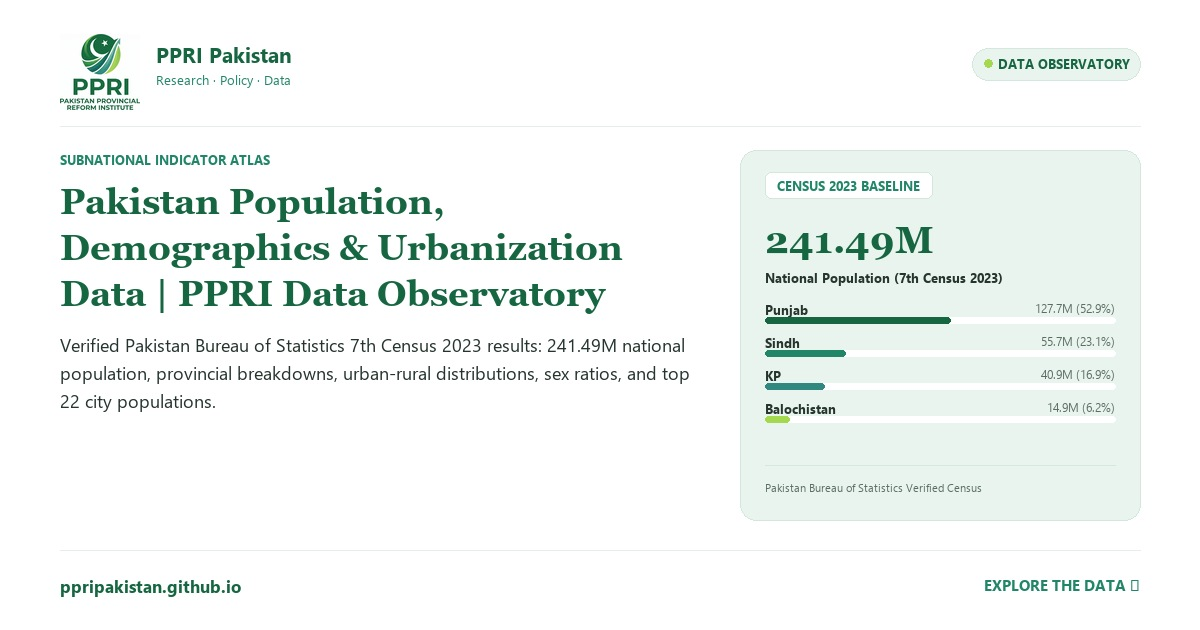
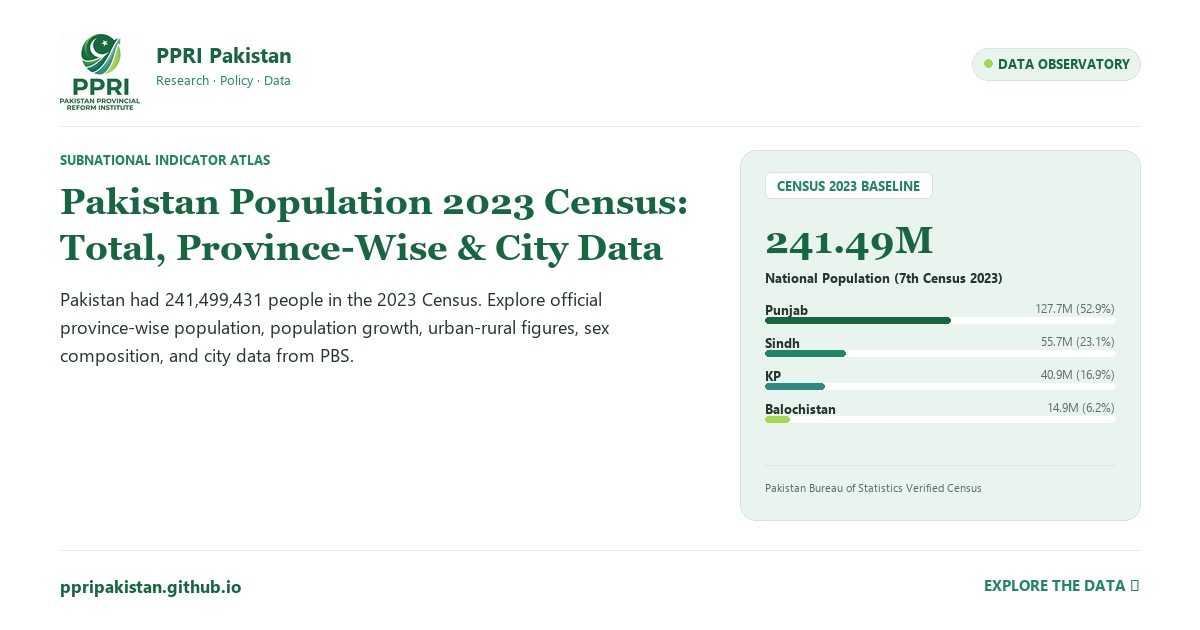
phase-17e

Changed region(s): [[0.0308, 0.3016, 0.5858, 0.6032], [0.0617, 0.6333, 0.185, 0.6635]]

diff --git a/data/population/index.html b/data/population/index.html
@@ -12,28 +12,28 @@
     </script>
     <meta charset="utf-8" />
     <meta name="viewport" content="width=device-width,initial-scale=1" />
-    <title>Pakistan Population, Demographics & Urbanization Data | PPRI Data Observatory</title>
-    <meta name="description" content="Verified Pakistan Bureau of Statistics 7th Census 2023 results: 241.49M national population, provincial breakdowns, urban-rural distributions, sex ratios, and top 22 city populations." />
+    <title>Pakistan Population 2023 Census: Total, Province-Wise &amp; City Data | PPRI</title>
+    <meta name="description" content="Pakistan had 241,499,431 people in the 2023 Census. Explore official province-wise population, population growth, urban-rural figures, sex composition, and city data from PBS." />
     <link rel="canonical" href="https://ppripakistan.github.io/data/population/" />
     <meta property="og:site_name" content="Pakistan Provincial Reform Institute" />
     <meta property="og:locale" content="en_PK" />
     <meta property="og:type" content="website" />
-    <meta property="og:title" content="Pakistan Population, Demographics & Urbanization Data | PPRI Data Observatory" />
-    <meta property="og:description" content="Verified Pakistan Bureau of Statistics 7th Census 2023 results: 241.49M national population, provincial breakdowns, urban-rural distributions, sex ratios, and top 22 city populations." />
+    <meta property="og:title" content="Pakistan Population 2023 Census: Total, Province-Wise &amp; City Data | PPRI" />
+    <meta property="og:description" content="Pakistan had 241,499,431 people in the 2023 Census. Explore official province-wise population, population growth, urban-rural figures, sex composition, and city data from PBS." />
     <meta property="og:url" content="https://ppripakistan.github.io/data/population/" />
     <meta property="og:image" content="https://ppripakistan.github.io/assets/images/previews/data-population.jpg" />
     <meta property="og:image:secure_url" content="https://ppripakistan.github.io/assets/images/previews/data-population.jpg" />
     <meta property="og:image:type" content="image/jpeg" />
     <meta property="og:image:width" content="1200" />
     <meta property="og:image:height" content="630" />
-    <meta property="og:image:alt" content="Pakistan Population, Demographics & Urbanization Data | PPRI Data Observatory | Pakistan Provincial Reform Institute" />
+    <meta property="og:image:alt" content="Pakistan Population 2023 Census: Total, Province-Wise &amp; City Data | Pakistan Provincial Reform Institute" />
     <meta name="twitter:card" content="summary_large_image" />
     <meta name="twitter:site" content="@PPRI_Pakistan" />
     <meta name="twitter:creator" content="@PPRI_Pakistan" />
-    <meta name="twitter:title" content="Pakistan Population, Demographics & Urbanization Data | PPRI Data Observatory" />
-    <meta name="twitter:description" content="Verified Pakistan Bureau of Statistics 7th Census 2023 results: 241.49M national population, provincial breakdowns, urban-rural distributions, sex ratios, and top 22 city populations." />
+    <meta name="twitter:title" content="Pakistan Population 2023 Census: Total, Province-Wise &amp; City Data | PPRI" />
+    <meta name="twitter:description" content="Pakistan had 241,499,431 people in the 2023 Census. Explore official province-wise population, population growth, urban-rural figures, sex composition, and city data from PBS." />
     <meta name="twitter:image" content="https://ppripakistan.github.io/assets/images/previews/data-population.jpg" />
-    <meta name="twitter:image:alt" content="Pakistan Population, Demographics & Urbanization Data | PPRI Data Observatory | Pakistan Provincial Reform Institute" />
+    <meta name="twitter:image:alt" content="Pakistan Population 2023 Census: Total, Province-Wise &amp; City Data | Pakistan Provincial Reform Institute" />
     <link rel="icon" type="image/png" href="/favicon.png" />
     <link rel="icon" href="/favicon.ico" sizes="48x48" />
     <link rel="icon" href="/assets/images/brand/favicon.svg" type="image/svg+xml" />
@@ -49,8 +49,8 @@
     {
       "@context": "https://schema.org",
       "@type": "Dataset",
-      "name": "Pakistan Population, Demographics &amp; Urbanization",
-      "description": "Verified Pakistan Bureau of Statistics 7th Census 2023 results: 241.49M national population, provincial breakdowns, urban-rural distributions, sex ratios, and top 22 city populations.",
+      "name": "Pakistan Population 2023 Census: Province-Wise, Urban-Rural and City Data",
+      "description": "Pakistan had 241,499,431 people in the 2023 Census. Explore official province-wise population, population growth, urban-rural figures, sex composition, and city data from PBS.",
       "url": "https://ppripakistan.github.io/data/population/",
       "license": "https://creativecommons.org/licenses/by/4.0/",
       "spatialCoverage": {
@@ -91,12 +91,157 @@
         {
           "@type": "ListItem",
           "position": 3,
-          "name": "Pakistan Population, Demographics &amp; Urbanization",
+          "name": "Pakistan Population 2023 Census: Province-Wise, Urban-Rural and City Data",
           "item": "https://ppripakistan.github.io/data/population/"
         }
       ]
     }
     </script>
+    <script type="application/ld+json">
+{
+  "@context": "https://schema.org",
+  "@type": "FAQPage",
+  "mainEntity": [
+    {
+      "@type": "Question",
+      "name": "What is the population of Pakistan according to the 2023 census?",
+      "acceptedAnswer": {
+        "@type": "Answer",
+        "text": "The Pakistan Bureau of Statistics reports 241,499,431 people in the 2023 Population and Housing Census. This is a census count, not a live estimate for 2026."
+      }
+    },
+    {
+      "@type": "Question",
+      "name": "What was Pakistan’s population in 2017?",
+      "acceptedAnswer": {
+        "@type": "Answer",
+        "text": "The 2017 census counted 207,684,626 people in the Table 1 comparison series used on this page."
+      }
+    },
+    {
+      "@type": "Question",
+      "name": "Which province has the largest population in Pakistan?",
+      "acceptedAnswer": {
+        "@type": "Answer",
+        "text": "Punjab was the most populous province in the 2023 census, with 127,688,922 people, about 52.87% of the national total."
+      }
+    },
+    {
+      "@type": "Question",
+      "name": "What is the population of Punjab in the 2023 census?",
+      "acceptedAnswer": {
+        "@type": "Answer",
+        "text": "Punjab’s 2023 census population was 127,688,922."
+      }
+    },
+    {
+      "@type": "Question",
+      "name": "What is the population of Sindh in the 2023 census?",
+      "acceptedAnswer": {
+        "@type": "Answer",
+        "text": "Sindh’s 2023 census population was 55,696,147."
+      }
+    },
+    {
+      "@type": "Question",
+      "name": "What is the population of Khyber Pakhtunkhwa in the 2023 census?",
+      "acceptedAnswer": {
+        "@type": "Answer",
+        "text": "Khyber Pakhtunkhwa’s 2023 census population was 40,856,097."
+      }
+    },
+    {
+      "@type": "Question",
+      "name": "What is the population of Balochistan in the 2023 census?",
+      "acceptedAnswer": {
+        "@type": "Answer",
+        "text": "Balochistan’s 2023 census population was 14,894,402."
+      }
+    },
+    {
+      "@type": "Question",
+      "name": "What is Pakistan’s population growth rate?",
+      "acceptedAnswer": {
+        "@type": "Answer",
+        "text": "PBS reported an average annual growth rate of 2.55% between the 2017 and 2023 censuses. This historical rate is not a verified 2026 growth rate."
+      }
+    },
+    {
+      "@type": "Question",
+      "name": "How many people live in urban and rural Pakistan?",
+      "acceptedAnswer": {
+        "@type": "Answer",
+        "text": "The PBS Census 2023 Table 1 series used on this page reports 93,750,724 urban residents and 147,748,707 rural residents. Some PBS report tables show a slightly different split; use a named table series when comparing figures."
+      }
+    },
+    {
+      "@type": "Question",
+      "name": "What percentage of Pakistan’s population lives in cities?",
+      "acceptedAnswer": {
+        "@type": "Answer",
+        "text": "Using the PBS Census 2023 Table 1 series, 93,750,724 of 241,499,431 people were classified as urban—about 38.82%. The result depends on the census table’s urban/rural classification."
+      }
+    },
+    {
+      "@type": "Question",
+      "name": "What is the population density of Pakistan?",
+      "acceptedAnswer": {
+        "@type": "Answer",
+        "text": "Population density depends on the land-area denominator and geographic coverage used. Consult PBS Census 2023 Table 1 for official national and province-wise density figures rather than combining population counts with an unrelated area estimate."
+      }
+    },
+    {
+      "@type": "Question",
+      "name": "What is the population of Karachi?",
+      "acceptedAnswer": {
+        "@type": "Answer",
+        "text": "Karachi figures vary depending on whether the source reports an urban locality, district, division or wider metropolitan definition. Always compare the named geographic unit and exact PBS census table; these boundaries are not interchangeable."
+      }
+    },
+    {
+      "@type": "Question",
+      "name": "What is the population of Lahore?",
+      "acceptedAnswer": {
+        "@type": "Answer",
+        "text": "Lahore population figures may refer to the urban locality or Lahore District. State the unit and census table when citing a number; do not treat district and city populations as synonyms."
+      }
+    },
+    {
+      "@type": "Question",
+      "name": "Does the 2023 census total shown here include Gilgit-Baltistan and Azad Jammu and Kashmir?",
+      "acceptedAnswer": {
+        "@type": "Answer",
+        "text": "The 241,499,431 total on this page is the PBS Table 1 series covering the four provinces and Islamabad Capital Territory. Gilgit-Baltistan and Azad Jammu and Kashmir are not included in that five-area total."
+      }
+    },
+    {
+      "@type": "Question",
+      "name": "Where can I download official Pakistan census population data?",
+      "acceptedAnswer": {
+        "@type": "Answer",
+        "text": "Start with the Pakistan Bureau of Statistics Census portal and its detailed results and Excel tables. This page also provides a downloadable PPRI CSV derived from the cited source series."
+      }
+    },
+    {
+      "@type": "Question",
+      "name": "Is 241.5 million Pakistan’s current population in 2026?",
+      "acceptedAnswer": {
+        "@type": "Answer",
+        "text": "No. It is the enumerated population from the 2023 census. A 2026 population estimate is a different statistic and should be labelled with its projection source, reference date and method."
+      }
+    }
+  ]
+}
+</script>
+    <style>
+      #pakistan-population-at-a-glance .obs-table-container { overflow-x: auto; }
+      #pakistan-population-at-a-glance table caption { text-align:left; padding:0.75rem; font-weight:700; }
+      .population-faq-list { display:grid; gap:10px; }
+      .population-faq-list details { border:1px solid var(--obs-border); border-radius:var(--obs-radius-sm); padding:14px 16px; background:#fff; }
+      .population-faq-list summary { cursor:pointer; font-weight:700; line-height:1.5; }
+      .population-faq-list details p { margin:12px 0 0; line-height:1.7; }
+      @media (max-width:640px) { #pakistan-population-at-a-glance .obs-table { min-width:620px; } }
+    </style>
   </head>
   <body>
     <a class="skip-link" href="#main-content">Skip to content</a>
@@ -134,8 +279,8 @@
             <span class="obs-badge obs-badge-official">&check; Verified Public Data</span>
             <span class="obs-badge obs-badge-period">Updated 2025–26</span>
           </div>
-          <h1 class="obs-title">Pakistan Population, Demographics &amp; Urbanization</h1>
-          <p class="obs-subtitle">Verified Pakistan Bureau of Statistics 7th Census 2023 results: 241.49M national population, provincial breakdowns, urban-rural distributions, sex ratios, and top 22 city populations.</p>
+          <h1 class="obs-title">Pakistan Population (2023 Census): Total, Provinces, Cities &amp; Demographics</h1>
+          <p class="obs-subtitle">Pakistan’s 7th Population and Housing Census counted 241,499,431 people in 2023. Explore province-wise totals, growth between the 2017 and 2023 censuses, urban and rural population, population by sex, and official source tables.</p>
         </div>
       </div>
 
@@ -143,18 +288,40 @@
         <div style="background:#ffffff;border:1px solid var(--obs-border);border-radius:var(--obs-radius-md);padding:14px 18px;margin-bottom:28px;box-shadow:var(--obs-shadow);">
           <div style="font-size:0.8rem;font-weight:700;color:var(--obs-text-muted);text-transform:uppercase;letter-spacing:0.05em;margin-bottom:8px;">Observatory Thematic Hubs</div>
           <div style="display:flex;flex-wrap:wrap;gap:8px;">
-            <a href="/data/centre.html" class="obs-query-chip">🌐 Overview &amp; Map</a><a href="/data/population/" class="obs-query-chip active" style="background:var(--obs-primary);color:#fff;border-color:var(--obs-primary);>👥 Population &amp; Cities</a><a href="/data/economy/" class="obs-query-chip">📈 Economy &amp; Inflation</a><a href="/data/living-standards/" class="obs-query-chip">🏠 Living Standards</a><a href="/data/public-finance/" class="obs-query-chip">⚖ Public Finance &amp; NFC</a><a href="/data/education/" class="obs-query-chip">🎓 Education</a><a href="/data/health/" class="obs-query-chip">🏥 Health</a><a href="/data/digital-access/" class="obs-query-chip">🌐 Digital Access</a><a href="/data/compare/" class="obs-query-chip">📊 Compare</a><a href="/data/quick-facts/" class="obs-query-chip">★ Fast Facts</a>
+            <a href="/data/centre.html" class="obs-query-chip">🌐 Overview &amp; Map</a><a href="/data/population/" class="obs-query-chip active" style="background:var(--obs-primary);color:#fff;border-color:var(--obs-primary);">👥 Population &amp; Cities</a><a href="/data/economy/" class="obs-query-chip">📈 Economy &amp; Inflation</a><a href="/data/living-standards/" class="obs-query-chip">🏠 Living Standards</a><a href="/data/public-finance/" class="obs-query-chip">⚖ Public Finance &amp; NFC</a><a href="/data/education/" class="obs-query-chip">🎓 Education</a><a href="/data/health/" class="obs-query-chip">🏥 Health</a><a href="/data/digital-access/" class="obs-query-chip">🌐 Digital Access</a><a href="/data/compare/" class="obs-query-chip">📊 Compare</a><a href="/data/quick-facts/" class="obs-query-chip">★ Fast Facts</a>
           </div>
         </div>
 
         <!-- Executive Stat Cards -->
         
+      <!-- Phase 2.2: Direct-answer content for Pakistan population search intent -->
+      <section class="obs-section" id="pakistan-population-at-a-glance" aria-labelledby="population-at-a-glance-title">
+        <div class="obs-section-header">
+          <div><span class="obs-badge obs-badge-official">Official census baseline</span><h2 class="obs-section-title" id="population-at-a-glance-title">What is the population of Pakistan?</h2></div>
+          <a class="obs-btn obs-btn-outline" href="https://www.pbs.gov.pk/census/" target="_blank" rel="noopener noreferrer">PBS Census source ↗</a>
+        </div>
+        <p><strong>Pakistan’s population was 241,499,431 in the 2023 Population and Housing Census</strong>, according to the Pakistan Bureau of Statistics (PBS). This is the latest census count shown on this page—not a live 2026 population estimate. The 2017 census counted 207,684,626 people; the reported average annual growth rate between the two censuses was 2.55%.</p>
+        <div class="obs-table-container"><table class="obs-table">
+          <caption>Pakistan population by province and Islamabad Capital Territory, Census 2023</caption>
+          <thead><tr><th scope="col">Province / area</th><th scope="col">Population (2023)</th><th scope="col">Share of national total</th><th scope="col">Annual growth, 2017–2023</th></tr></thead>
+          <tbody>
+            <tr><th scope="row">Punjab</th><td class="num">127,688,922</td><td class="num">52.87%</td><td class="num">2.53%</td></tr>
+            <tr><th scope="row">Sindh</th><td class="num">55,696,147</td><td class="num">23.06%</td><td class="num">2.57%</td></tr>
+            <tr><th scope="row">Khyber Pakhtunkhwa</th><td class="num">40,856,097</td><td class="num">16.92%</td><td class="num">2.38%</td></tr>
+            <tr><th scope="row">Balochistan</th><td class="num">14,894,402</td><td class="num">6.17%</td><td class="num">3.20%</td></tr>
+            <tr><th scope="row">Islamabad Capital Territory</th><td class="num">2,363,863</td><td class="num">0.98%</td><td class="num">2.80%</td></tr>
+            <tr><th scope="row">Pakistan total</th><td class="num">241,499,431</td><td class="num">100%</td><td class="num">2.55%</td></tr>
+          </tbody></table></div>
+        <p class="summary-note"><strong>How to read the figures:</strong> Census counts describe the population enumerated in a stated census year. Growth rates are historical averages for 2017–2023, not forecasts for 2026. Islamabad is a federal capital territory, not one of Pakistan’s four provinces. PBS tables may differ for some rural/urban breakdowns; this page labels the Table 1 series where used.</p>
+        <p>For a concise administrative overview, see <a href="/articles/provinces-of-pakistan-names-capitals-population.html">the guide to Pakistan’s provinces, capitals and population</a>. For city-level figures, compare like with like: an urban locality, district, division and metropolitan area are not interchangeable geographic units.</p>
+      </section>
+
       <!-- Phase 4: Crawlable Static HTML Executive Data Summary & Key Benchmarks -->
       <section class="seo-data-summary" id="executive-data-summary" aria-label="Executive Data Summary">
         <h2>Pakistan Population, Urbanization & City Scale: Executive Demographic Summary</h2>
         <p class="summary-lead"><strong>Executive Overview:</strong> Official results from the Pakistan Bureau of Statistics (PBS) 7th Population and Housing Census 2023 record Pakistan's total population at 241,499,431 citizens, reflecting an average intercensal annual growth rate of 2.55% between 2017 and 2023. This demographic expansion represents an addition of over 33.8 million people in six years, placing acute administrative pressure on provincial service delivery, urban infrastructure, and administrative boundaries.</p>
-        <p>Demographic weight is heavily concentrated: Punjab contains 127,688,922 citizens (52.88%), Sindh contains 55,696,147 (23.06%), Khyber Pakhtunkhwa houses 40,856,097 (16.92%), Balochistan comprises 14,894,402 (6.17%), and Islamabad Capital Territory holds 2,363,863 (0.98%). Pakistan's urban population reached 93.75 million (38.82%), led by two megacities: Karachi Division at 20,382,881 citizens and Lahore District at 13,004,135 citizens. Pakistan now has 22 secondary cities exceeding 500,000 residents, yet municipal governance remains constrained under centralized provincial bureaucracies.</p>
-        <div class="table-wrap"><table class="data-summary-table"><thead><tr><th>Administrative Division / City</th><th>2023 Census Population</th><th>National Share (%)</th><th>Urban Proportion (%)</th><th>Administrative Status</th></tr></thead><tbody><tr><td>Punjab Province</td><td>127,688,922</td><td>52.88%</td><td>40.70%</td><td>Provincial Baseline (10 Divisions)</td></tr><tr><td>Sindh Province</td><td>55,696,147</td><td>23.06%</td><td>53.73%</td><td>Provincial Baseline (7 Divisions)</td></tr><tr><td>Khyber Pakhtunkhwa</td><td>40,856,097</td><td>16.92%</td><td>15.01%</td><td>Provincial Baseline (7 Divisions)</td></tr><tr><td>Balochistan</td><td>14,894,402</td><td>6.17%</td><td>30.98%</td><td>Provincial Baseline (8 Divisions)</td></tr><tr><td>Islamabad Capital Territory</td><td>2,363,863</td><td>0.98%</td><td>46.90%</td><td>Federal Capital Territory</td></tr><tr><td>Karachi Megacity (7 Districts)</td><td>20,382,881</td><td>8.44%</td><td>100.0%</td><td>Megacity Hub (25 Towns)</td></tr><tr><td>Lahore Megacity</td><td>13,004,135</td><td>5.38%</td><td>100.0%</td><td>Provincial Capital Hub</td></tr><tr><td>Faisalabad City</td><td>3,691,999</td><td>1.53%</td><td>100.0%</td><td>Secondary Industrial City</td></tr><tr><td>Rawalpindi City</td><td>3,357,612</td><td>1.39%</td><td>100.0%</td><td>Secondary Urban Hub</td></tr></tbody></table></div>
+        <p>Demographic weight is heavily concentrated: Punjab contains 127,688,922 citizens (52.88%), Sindh contains 55,696,147 (23.06%), Khyber Pakhtunkhwa houses 40,856,097 (16.92%), Balochistan comprises 14,894,402 (6.17%), and Islamabad Capital Territory holds 2,363,863 (0.98%). For the urban-rural split, this page uses the PBS Census 2023 Table 1 series: 93,750,724 urban residents and 147,748,707 rural residents. City population figures must be interpreted using their published geographic definition; an urban locality is not the same as a district or division.</p>
+        <div class="table-wrap"><table class="data-summary-table"><thead><tr><th>Administrative Division / City</th><th>2023 Census Population</th><th>National Share (%)</th><th>Urban Proportion (%)</th><th>Administrative Status</th></tr></thead><tbody><tr><td>Punjab Province</td><td>127,688,922</td><td>52.88%</td><td>40.71%</td><td>Provincial Baseline (10 Divisions)</td></tr><tr><td>Sindh Province</td><td>55,696,147</td><td>23.06%</td><td>53.97%</td><td>Provincial Baseline (7 Divisions)</td></tr><tr><td>Khyber Pakhtunkhwa</td><td>40,856,097</td><td>16.92%</td><td>15.01%</td><td>Provincial Baseline (7 Divisions)</td></tr><tr><td>Balochistan</td><td>14,894,402</td><td>6.17%</td><td>30.96%</td><td>Provincial Baseline (8 Divisions)</td></tr><tr><td>Islamabad Capital Territory</td><td>2,363,863</td><td>0.98%</td><td>46.91%</td><td>Federal Capital Territory</td></tr><tr><td>Karachi Megacity (7 Districts)</td><td>20,382,881</td><td>8.44%</td><td>100.0%</td><td>Megacity Hub (25 Towns)</td></tr><tr><td>Lahore Megacity</td><td>13,004,135</td><td>5.38%</td><td>100.0%</td><td>Provincial Capital Hub</td></tr><tr><td>Faisalabad City</td><td>3,691,999</td><td>1.53%</td><td>100.0%</td><td>Secondary Industrial City</td></tr><tr><td>Rawalpindi City</td><td>3,357,612</td><td>1.39%</td><td>100.0%</td><td>Secondary Urban Hub</td></tr></tbody></table></div>
         <p class="summary-note"><em>Data Benchmark: Official verified public figures from PBS Census 2023, HIES 2024–25, PES 2025–26, and 7th NFC Award documents. Fully crawlable static reference data.</em></p>
       </section>
 
@@ -169,7 +336,7 @@
               </div>
             </div>            <div class="obs-stat-card">
               <span class="obs-stat-label">Urbanization Share</span>
-              <div class="obs-stat-val">38.8%</div>
+              <div class="obs-stat-val">38.82%</div>
               <div class="obs-stat-unit">93.75M in urban localities</div>
               <div class="obs-stat-footer" style="display:flex;justify-content:space-between;align-items:center;">
                 <span>Census Urban/Rural</span>
@@ -226,7 +393,7 @@
                 </tr>
               </thead>
               <tbody>
-                <tr><td>Pakistan (National Total)</td><td class="num">241,499,431</td><td class="num">100.0%</td><td class="num">2.55% / yr</td><td>PBS Census 2023 Table 1</td></tr><tr><td>Punjab (PK-PB)</td><td class="num">127,688,922</td><td class="num">52.87%</td><td class="num">2.53% / yr</td><td>PBS Census 2023 Table 1</td></tr><tr><td>Sindh (PK-SD)</td><td class="num">55,696,147</td><td class="num">23.06%</td><td class="num">2.57% / yr</td><td>PBS Census 2023 Table 1</td></tr><tr><td>Khyber Pakhtunkhwa (PK-KP)</td><td class="num">40,856,097</td><td class="num">16.92%</td><td class="num">2.38% / yr</td><td>PBS Census 2023 Table 1</td></tr><tr><td>Balochistan (PK-BA)</td><td class="num">14,894,402</td><td class="num">6.17%</td><td class="num">3.20% / yr</td><td>PBS Census 2023 Table 1</td></tr><tr><td>Islamabad Capital Territory (PK-ICT)</td><td class="num">2,363,863</td><td class="num">0.98%</td><td class="num">2.80% / yr</td><td>PBS Census 2023 Table 1</td></tr><tr><td>Male Population</td><td>124,324,591</td><td class="num">51.48%</td><td>—</td><td>PBS Census Table 2</td></tr><tr><td>Female Population</td><td>117,153,066</td><td class="num">48.51%</td><td>—</td><td>PBS Census Table 2</td></tr><tr><td>Transgender Population</td><td>21,774</td><td class="num">0.01%</td><td>—</td><td>PBS Census Table 2</td></tr><tr><td>Karachi Urban Locality</td><td>20,382,881</td><td class="num">8.44%</td><td class="num">2.41% / yr</td><td>PBS Major Localities</td></tr><tr><td>Lahore Urban Locality</td><td>13,004,135</td><td class="num">5.38%</td><td class="num">2.71% / yr</td><td>PBS Major Localities</td></tr><tr><td>Faisalabad Urban Locality</td><td>3,691,999</td><td class="num">1.53%</td><td class="num">2.10% / yr</td><td>PBS Major Localities</td></tr><tr><td>Rawalpindi Urban Locality</td><td>3,357,612</td><td class="num">1.39%</td><td class="num">2.35% / yr</td><td>PBS Major Localities</td></tr><tr><td>Gujranwala Urban Locality</td><td>2,511,118</td><td class="num">1.04%</td><td class="num">2.22% / yr</td><td>PBS Major Localities</td></tr><tr><td>Multan Urban Locality</td><td>2,215,381</td><td class="num">0.92%</td><td class="num">2.15% / yr</td><td>PBS Major Localities</td></tr><tr><td>Hyderabad Urban Locality</td><td>2,199,463</td><td class="num">0.91%</td><td class="num">2.28% / yr</td><td>PBS Major Localities</td></tr><tr><td>Peshawar Urban Locality</td><td>2,112,500</td><td class="num">0.87%</td><td class="num">2.45% / yr</td><td>PBS Major Localities</td></tr><tr><td>Quetta Urban Locality</td><td>1,565,000</td><td class="num">0.65%</td><td class="num">3.41% / yr</td><td>PBS Major Localities</td></tr>
+                <tr><td>Pakistan (National Total)</td><td class="num">241,499,431</td><td class="num">100.0%</td><td class="num">2.55% / yr</td><td>PBS Census 2023 Table 1</td></tr><tr><td>Punjab (PK-PB)</td><td class="num">127,688,922</td><td class="num">52.87%</td><td class="num">2.53% / yr</td><td>PBS Census 2023 Table 1</td></tr><tr><td>Sindh (PK-SD)</td><td class="num">55,696,147</td><td class="num">23.06%</td><td class="num">2.57% / yr</td><td>PBS Census 2023 Table 1</td></tr><tr><td>Khyber Pakhtunkhwa (PK-KP)</td><td class="num">40,856,097</td><td class="num">16.92%</td><td class="num">2.38% / yr</td><td>PBS Census 2023 Table 1</td></tr><tr><td>Balochistan (PK-BA)</td><td class="num">14,894,402</td><td class="num">6.17%</td><td class="num">3.20% / yr</td><td>PBS Census 2023 Table 1</td></tr><tr><td>Islamabad Capital Territory (PK-ICT)</td><td class="num">2,363,863</td><td class="num">0.98%</td><td class="num">2.80% / yr</td><td>PBS Census 2023 Table 1</td></tr><tr><td>Male Population</td><td>124,324,406</td><td class="num">51.48%</td><td>—</td><td>PBS Census Table 2</td></tr><tr><td>Female Population</td><td>117,154,694</td><td class="num">48.51%</td><td>—</td><td>PBS Census Table 2</td></tr><tr><td>Transgender Population</td><td>20,331</td><td class="num">0.01%</td><td>—</td><td>PBS Census Table 2</td></tr><tr><td>Karachi Urban Locality</td><td>20,382,881</td><td class="num">8.44%</td><td class="num">2.41% / yr</td><td>PBS Major Localities</td></tr><tr><td>Lahore Urban Locality</td><td>13,004,135</td><td class="num">5.38%</td><td class="num">2.71% / yr</td><td>PBS Major Localities</td></tr><tr><td>Faisalabad Urban Locality</td><td>3,691,999</td><td class="num">1.53%</td><td class="num">2.10% / yr</td><td>PBS Major Localities</td></tr><tr><td>Rawalpindi Urban Locality</td><td>3,357,612</td><td class="num">1.39%</td><td class="num">2.35% / yr</td><td>PBS Major Localities</td></tr><tr><td>Gujranwala Urban Locality</td><td>2,511,118</td><td class="num">1.04%</td><td class="num">2.22% / yr</td><td>PBS Major Localities</td></tr><tr><td>Multan Urban Locality</td><td>2,215,381</td><td class="num">0.92%</td><td class="num">2.15% / yr</td><td>PBS Major Localities</td></tr><tr><td>Hyderabad Urban Locality</td><td>2,199,463</td><td class="num">0.91%</td><td class="num">2.28% / yr</td><td>PBS Major Localities</td></tr><tr><td>Peshawar Urban Locality</td><td>2,112,500</td><td class="num">0.87%</td><td class="num">2.45% / yr</td><td>PBS Major Localities</td></tr><tr><td>Quetta Urban Locality</td><td>1,565,000</td><td class="num">0.65%</td><td class="num">3.41% / yr</td><td>PBS Major Localities</td></tr>
               </tbody>
             </table>
           </div>
@@ -330,7 +497,7 @@
       <section class="section" id="demographics-of-lahore" style="margin: 40px 0; padding: 28px; background: #ffffff; border: 1px solid #d2e4db; border-radius: 8px;">
         <h2 style="color: #073c3a; margin-top: 0;">Demographics of Lahore vs. Secondary Cities in Punjab (2023 Census)</h2>
         <p style="color: #334155; line-height: 1.65; font-size: 0.98rem;">
-          According to the official results of the 7th Population and Housing Census 2023 conducted by the Pakistan Bureau of Statistics (PBS), the <strong>demographics of Lahore</strong> reflect rapid urban concentration. The district of Lahore has reached an enumerated population of <strong>13,004,135 citizens</strong> (13.0 million), solidifying its position as Pakistan's second megalopolis after Karachi (18.87M) and the 24th most populous city in the world.
+          According to the official results of the 7th Population and Housing Census 2023 conducted by the Pakistan Bureau of Statistics (PBS), the <strong>demographics of Lahore</strong> reflect rapid urban concentration. The district of Lahore has reached an enumerated population of <strong>13,004,135 citizens</strong> (13.0 million), but comparisons with Karachi depend on the geographic unit used in each source. Census locality, district, division and metropolitan-area figures are not interchangeable.
         </p>
         <p style="color: #334155; line-height: 1.65; font-size: 0.98rem;">
           Lahore's annual intercensal growth rate of 3.01% significantly outpaces Punjab's overall provincial growth rate of 2.53%. This demographic surge is driven by internal rural-to-urban migration from Southern and Central Punjab, attracted by the concentration of tertiary hospitals, elite universities, provincial administrative secretariats, and industrial employment.
@@ -410,6 +577,30 @@
         <p style="font-size: 0.88rem; color: #64748b; margin-bottom: 0;">
           <em>Source: Pakistan Bureau of Statistics (PBS), 7th Population and Housing Census 2023, Key Findings Report (Major Urban Localities Table).</em>
         </p>
+      </section>
+
+
+      <section class="obs-section" id="population-faq" aria-labelledby="population-faq-title">
+        <div class="obs-section-header"><div><span class="obs-badge obs-badge-official">Quick answers</span><h2 class="obs-section-title" id="population-faq-title">Pakistan Population: Frequently Asked Questions</h2></div></div>
+        <div class="population-faq-list">
+          <details><summary>What is the population of Pakistan according to the 2023 census?</summary><p>The Pakistan Bureau of Statistics reports 241,499,431 people in the 2023 Population and Housing Census. This is a census count, not a live estimate for 2026.</p></details>
+          <details><summary>What was Pakistan’s population in 2017?</summary><p>The 2017 census counted 207,684,626 people in the Table 1 comparison series used on this page.</p></details>
+          <details><summary>Which province has the largest population in Pakistan?</summary><p>Punjab was the most populous province in the 2023 census, with 127,688,922 people, about 52.87% of the national total.</p></details>
+          <details><summary>What is the population of Punjab in the 2023 census?</summary><p>Punjab’s 2023 census population was 127,688,922.</p></details>
+          <details><summary>What is the population of Sindh in the 2023 census?</summary><p>Sindh’s 2023 census population was 55,696,147.</p></details>
+          <details><summary>What is the population of Khyber Pakhtunkhwa in the 2023 census?</summary><p>Khyber Pakhtunkhwa’s 2023 census population was 40,856,097.</p></details>
+          <details><summary>What is the population of Balochistan in the 2023 census?</summary><p>Balochistan’s 2023 census population was 14,894,402.</p></details>
+          <details><summary>What is Pakistan’s population growth rate?</summary><p>PBS reported an average annual growth rate of 2.55% between the 2017 and 2023 censuses. This historical rate is not a verified 2026 growth rate.</p></details>
+          <details><summary>How many people live in urban and rural Pakistan?</summary><p>The PBS Census 2023 Table 1 series used on this page reports 93,750,724 urban residents and 147,748,707 rural residents. Some PBS report tables show a slightly different split; use a named table series when comparing figures.</p></details>
+          <details><summary>What percentage of Pakistan’s population lives in cities?</summary><p>Using the PBS Census 2023 Table 1 series, 93,750,724 of 241,499,431 people were classified as urban—about 38.82%. The result depends on the census table’s urban/rural classification.</p></details>
+          <details><summary>What is the population density of Pakistan?</summary><p>Population density depends on the land-area denominator and geographic coverage used. Consult PBS Census 2023 Table 1 for official national and province-wise density figures rather than combining population counts with an unrelated area estimate.</p></details>
+          <details><summary>What is the population of Karachi?</summary><p>Karachi figures vary depending on whether the source reports an urban locality, district, division or wider metropolitan definition. Always compare the named geographic unit and exact PBS census table; these boundaries are not interchangeable.</p></details>
+          <details><summary>What is the population of Lahore?</summary><p>Lahore population figures may refer to the urban locality or Lahore District. State the unit and census table when citing a number; do not treat district and city populations as synonyms.</p></details>
+          <details><summary>Does the 2023 census total shown here include Gilgit-Baltistan and Azad Jammu and Kashmir?</summary><p>The 241,499,431 total on this page is the PBS Table 1 series covering the four provinces and Islamabad Capital Territory. Gilgit-Baltistan and Azad Jammu and Kashmir are not included in that five-area total.</p></details>
+          <details><summary>Where can I download official Pakistan census population data?</summary><p>Start with the Pakistan Bureau of Statistics Census portal and its detailed results and Excel tables. This page also provides a downloadable PPRI CSV derived from the cited source series.</p></details>
+          <details><summary>Is 241.5 million Pakistan’s current population in 2026?</summary><p>No. It is the enumerated population from the 2023 census. A 2026 population estimate is a different statistic and should be labelled with its projection source, reference date and method.</p></details>
+        </div>
+        <p class="summary-note">Primary source: <a href="https://www.pbs.gov.pk/census/" target="_blank" rel="noopener noreferrer">Pakistan Bureau of Statistics — 7th Population and Housing Census 2023</a>. Check each figure against the specific source table cited.</p>
       </section>
 
 </main>

diff --git a/scripts/update_sitemap_and_search_index.py b/scripts/update_sitemap_and_search_index.py
@@ -177,11 +177,11 @@ def clean_and_update_search_index():
             "tags": ["data observatory", "knowledge map", "census 2023", "nfc simulator", "districts", "provinces", "data hub", "datasets", "statistics"]
         },
         {
-            "title": "Pakistan Population, Demographics & Urbanization Data",
+            "title": "Pakistan Population 2023 Census: Total, Province-Wise & City Data",
             "type": "Data Observatory: Population",
-            "description": "Verified PBS 7th Census 2023 results: 241.49M national population, provincial breakdowns, urban-rural distributions, sex ratios, and top 22 city populations.",
+            "description": "Pakistan had 241,499,431 people in the 2023 Census. Explore official province-wise population, urban and rural shares, major city counts, and 16 population FAQs.",
             "url": "/data/population/",
-            "tags": ["population", "pakistan population", "census 2023", "punjab population", "sindh population", "kp population", "balochistan population", "karachi population", "lahore population", "urbanization", "growth rate", "demographics", "largest cities", "household size", "mother tongues"]
+            "tags": ["population", "pakistan population", "census 2023", "punjab population", "sindh population", "kp population", "balochistan population", "karachi population", "lahore population", "urbanization", "growth rate", "demographics", "largest cities", "household size", "mother tongues", "population faqs"]
         },
         {
             "title": "Pakistan Economy, Inflation & Market Benchmarks Data",
